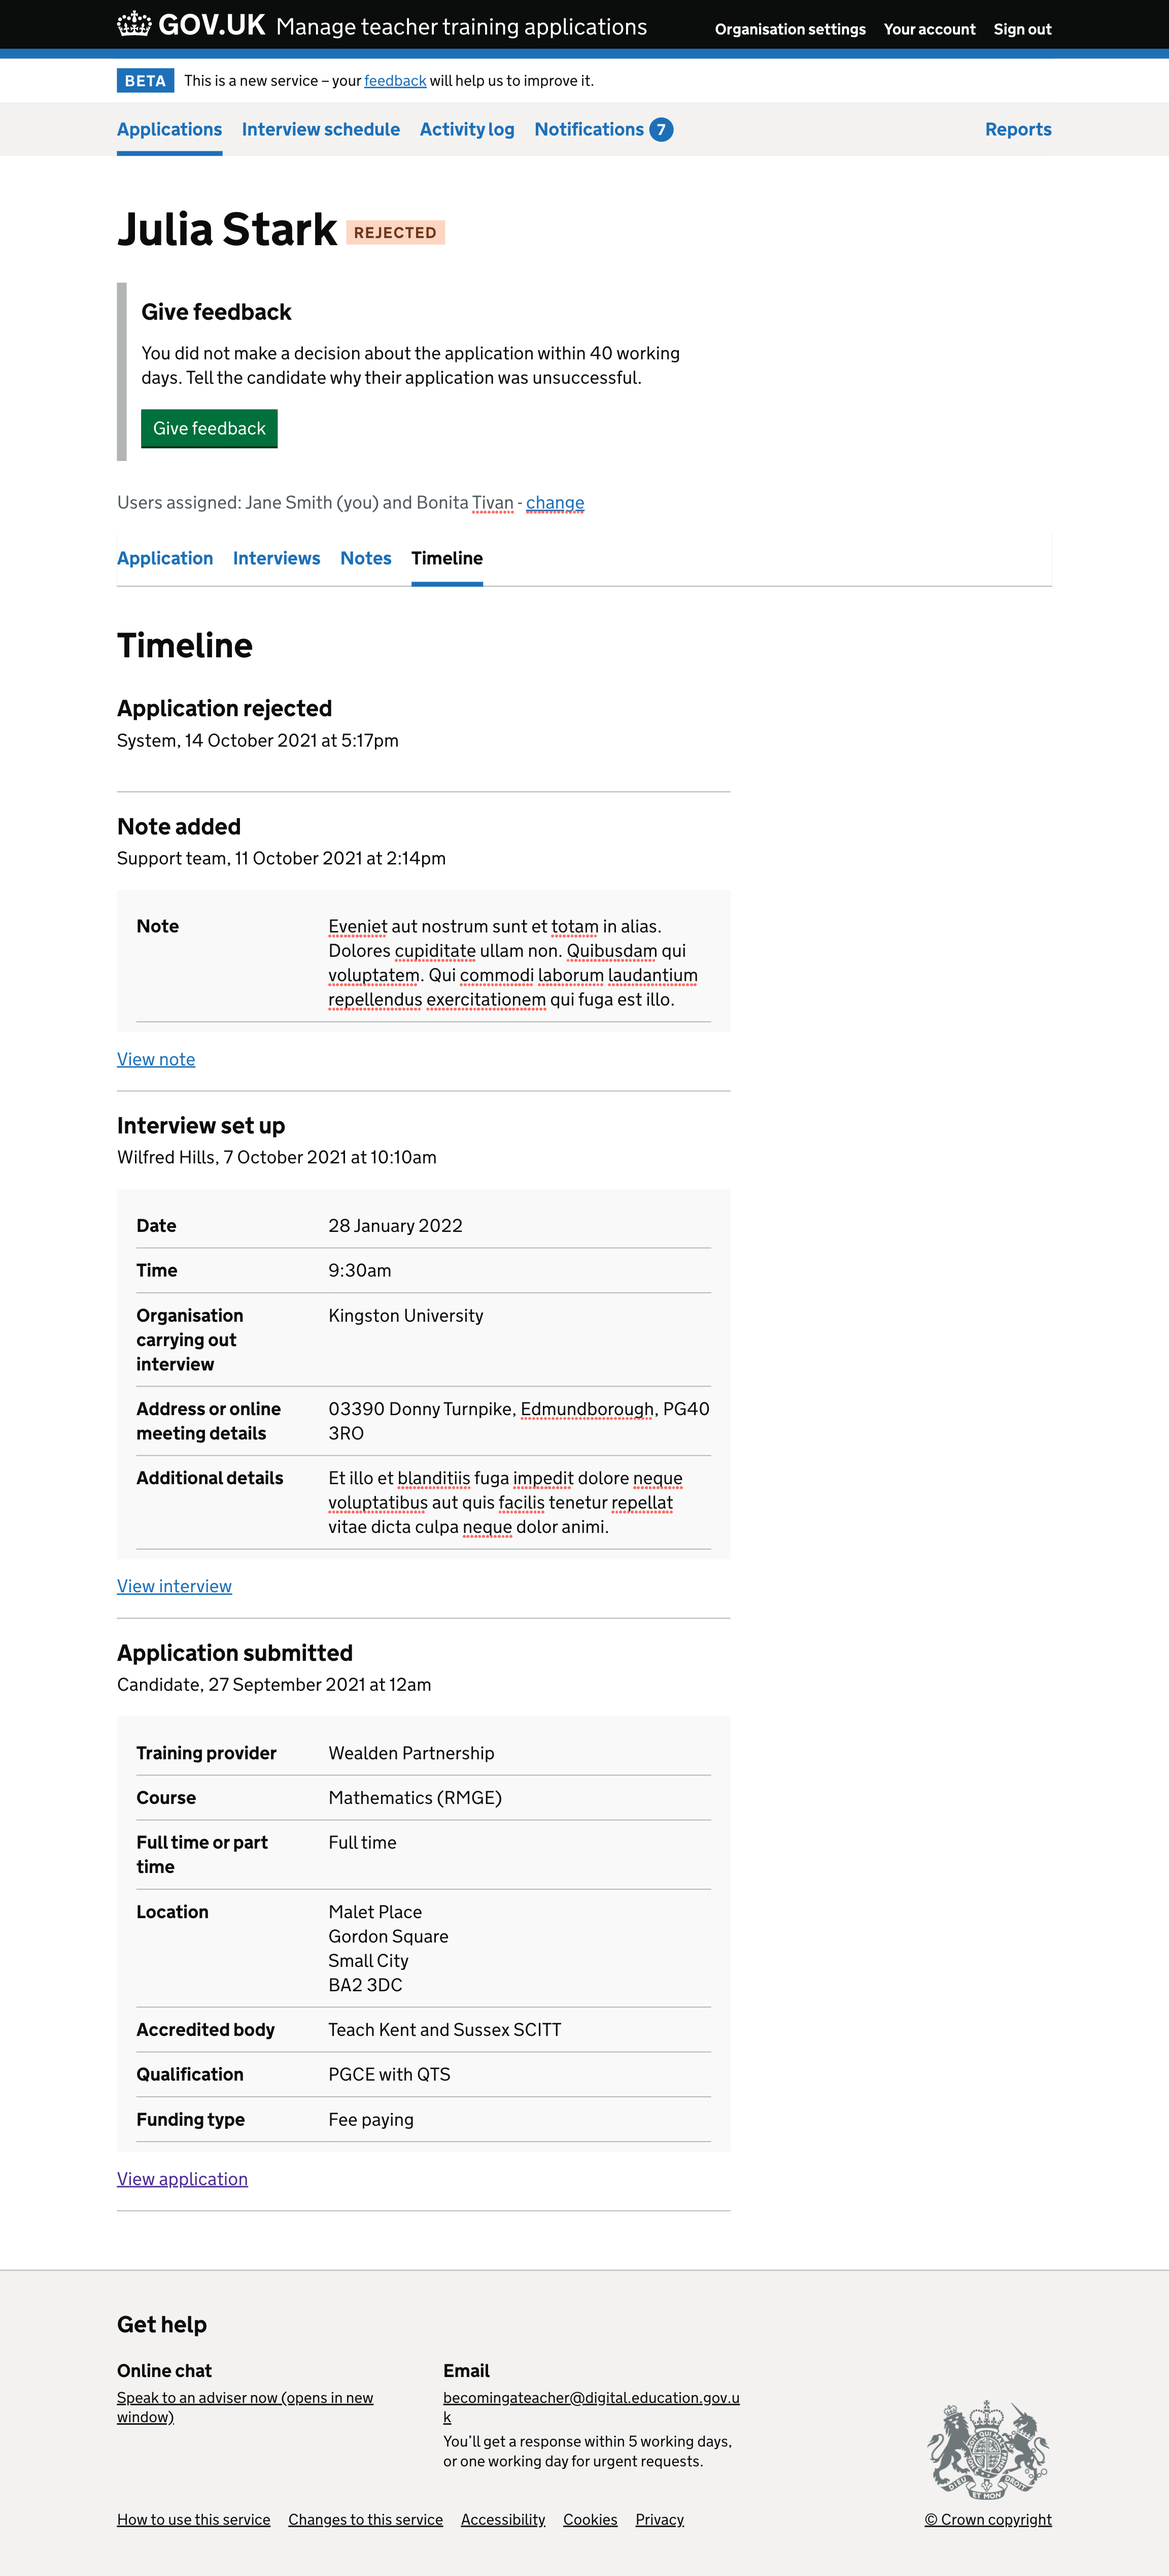
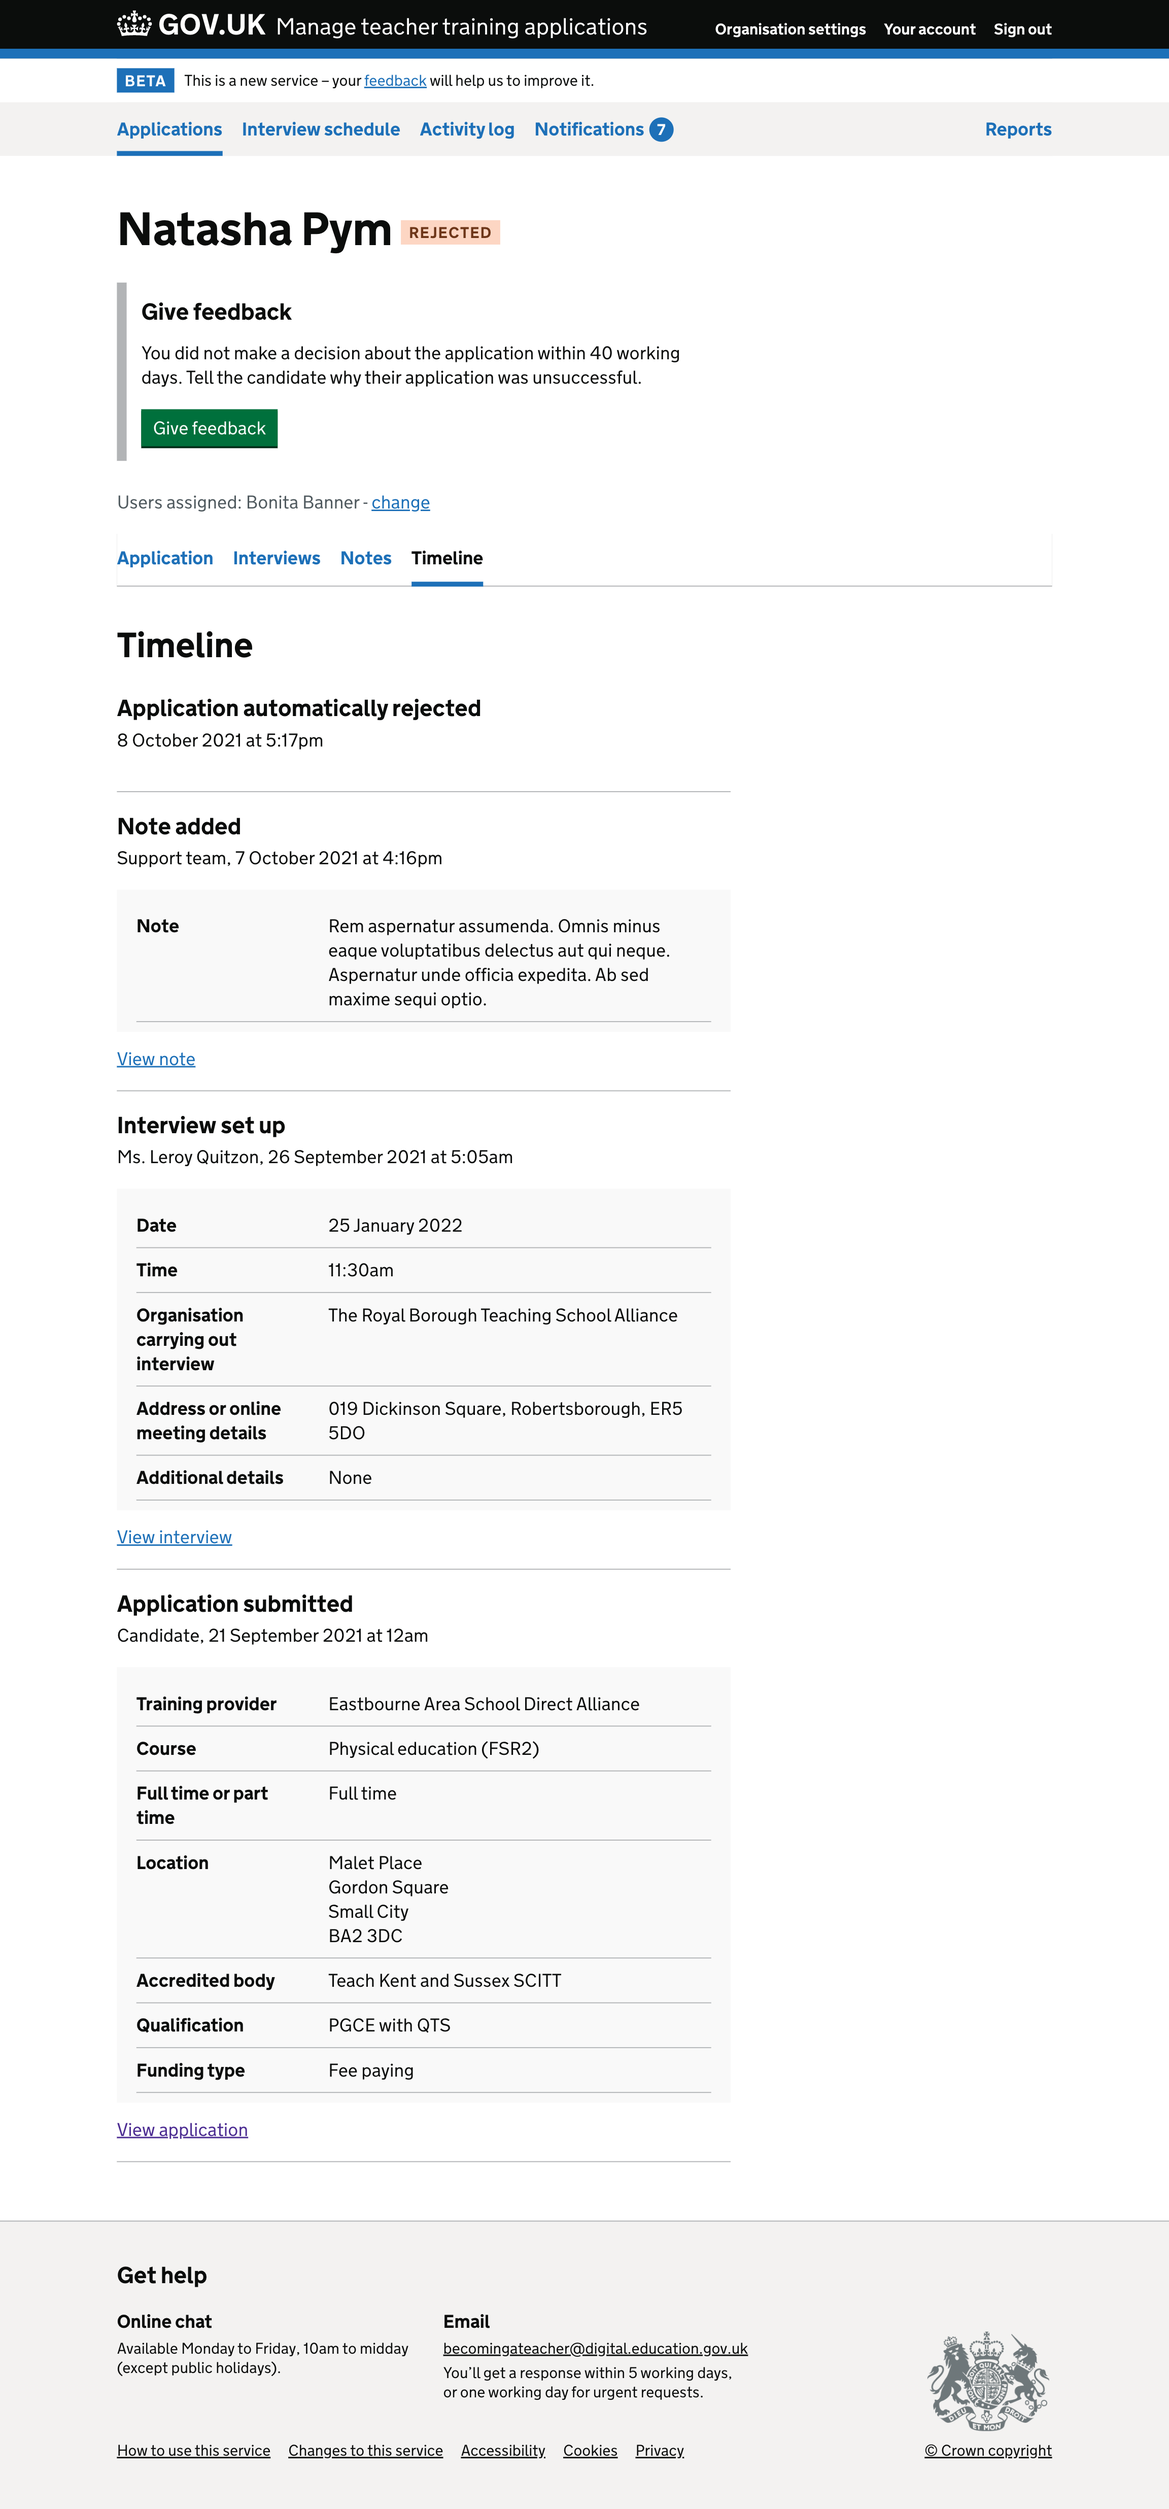
2i and update designs

diff --git a/app/posts/manage-teacher-training-applications/2022-02-14-improving-the-way-we-display-who-made-changes-in-the-timeline.md b/app/posts/manage-teacher-training-applications/2022-02-14-improving-the-way-we-display-who-made-changes-in-the-timeline.md
@@ -1,6 +1,6 @@
 ---
 title: Improving the way we display who made changes in the timeline
-description: We changed the way we display who made changes in the timeline
+description: We changed the way we display who made changes in the timeline and activity log.
 date: 2022-02-14
 screenshots:
   items:
@@ -10,9 +10,10 @@ screenshots:
 
 The way we display who made changes in the timeline is misleading and complicated. For example:
 
-- when the support team makes a change in the Support service, the label says “Apply support”
-- when the support team make changes in the console, the label says “System”
-- when a user makes the change through the API, the label says, for example “Sally Jones (Vendor API)”
+- when the support team makes a change in the support service, the label says “Apply support”
+- when the support team makes a change in the console, the label says “System”
+- when an application is automatically rejected or an offer is automatically declined, the label says “System”
+- when a user makes a change in their student record system using the API the label says, for example “Sally Jones (Vendor API)”
 
 ## What we changed
 
@@ -20,8 +21,12 @@ We changed the labels to be:
 
 - the full name of the user for changes made by providers
 - “Support team” for changes made by members of the support team
-- “System” for changes made automatically such as when an offer is automatically declined
 
-We decided not to keep “(Vendor API)” for changes made via the API because that should not be the concern of the user. Support can look that detail up when troubleshooting a problem.
+We’ll no longer show a label when an application is automatically rejected or when an offer is automatically declined. To compensate for this, we’ve changed the titles to:
 
-We left the label as “Candidate” for changes made by the candidate.
+- “Application automatically rejected”
+- “Offer automatically declined”
+
+We decided not to keep “(Vendor API)” for changes made using the API because that should not be the concern of the user. The support team can look that detail up when troubleshooting a problem.
+
+We kept the label as “Candidate” for changes made by the candidate.
